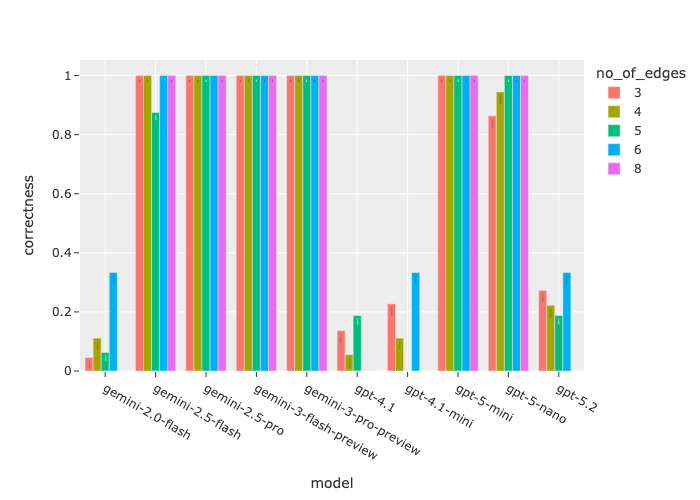
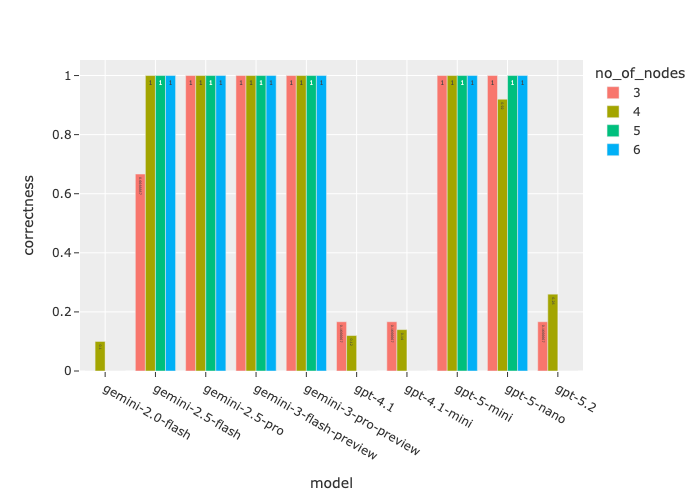
changes

diff --git a/Eval.py b/Eval.py
@@ -380,7 +380,7 @@ def eval_answer(flag=False):
     Data_all=[]
 
     for k in keys:
-        print('questions_records[k]',questions_records[k].keys())
+        #print('questions_records[k]',questions_records[k].keys())
         answers_set_all_crossed=questions_records[k]['original']['crossed']
         answers_set_all_not_crossed=questions_records[k]['original']['not_crossed']
     
@@ -403,10 +403,10 @@ def eval_answer(flag=False):
   
             # if 'gpt' not in selected_model['model']:
             #     continue
-            print('##############################')
-            print('data_name',data_name)
-            print('selected_model',selected_model)
-            print('Show_train_set',Show_train_set)
+            # print('##############################')
+            # print('data_name',data_name)
+            # print('selected_model',selected_model)
+            # print('Show_train_set',Show_train_set)
             ##
             direct_indirect={}
             Crossed_not_crossed={}
@@ -426,7 +426,7 @@ def eval_answer(flag=False):
                 name=eval_d['name']
                 type_=eval_d['Type_']
                 Crossed_edges=eval_d['Crossed_edges']
-                print('Crossed_edges',Crossed_edges)
+                #print('Crossed_edges',Crossed_edges)
           
                 source_adj=eval_d['source_adj']
 
@@ -459,139 +459,7 @@ def eval_answer(flag=False):
                 Data_all.append(item)
     return Data_all
    
-                
-
-          
-    #             if duration=='None':
-    #                 continue
-    #             total_seconds=total_seconds+int(duration)
-    #             if map_solution==an_obtained:
-    #                 c=c+1
-    #                 if type_ in direct_indirect.keys():
-    #                     direct_indirect[type_]['c']=direct_indirect[type_]['c']+1
-    #                     #print('direct_indirect[type_]',direct_indirect[type_])
-    #                     direct_indirect[type_]['duration']+=duration
-    #                 else:
-    #                     direct_indirect[type_]={'c':0,'nc':0,'duration':duration}
-    #                     direct_indirect[type_]['c']=direct_indirect[type_]['c']+1
-    #                 ########
-    #                 if Crossed_edges in Crossed_not_crossed.keys():
-    #                     Crossed_not_crossed[Crossed_edges]['c']=Crossed_not_crossed[Crossed_edges]['c']+1
-    #                     Crossed_not_crossed[Crossed_edges]['duration']+=duration
-    #                 else:
-    #                     Crossed_not_crossed[Crossed_edges]={'c':0,'nc':0,'duration':duration}
-    #                     Crossed_not_crossed[Crossed_edges]['c']=Crossed_not_crossed[Crossed_edges]['c']+1
-    #                 ##################
-    #                 if no_of_edges in no_of_edges_acc.keys():
-    #                     no_of_edges_acc[no_of_edges]['c']+=1
-    #                     no_of_edges_acc[no_of_edges]['duration']+=duration
-    #                 else:
-    #                     no_of_edges_acc[no_of_edges]={'c':0,'nc':0,'duration':duration}
-    #                     no_of_edges_acc[no_of_edges]['c']+=1
-    #                     no_of_edges_acc[no_of_edges]['duration']=duration
-    #                 ##
-    #                 if no_of_nodes in no_of_nodes_acc.keys():
-    #                     no_of_nodes_acc[no_of_nodes]['c']+=1
-    #                     no_of_nodes_acc[no_of_nodes]['duration']+=duration
-    #                 else:
-    #                     no_of_nodes_acc[no_of_nodes]={'c':0,'nc':0,'duration':duration}
-    #                     no_of_nodes_acc[no_of_nodes]['c']+=1
-    #             else:
-    #                 nc=nc+1
-    #                 if type_ in direct_indirect.keys():
-    #                     direct_indirect[type_]['nc']=direct_indirect[type_]['nc']+1
-    #                     direct_indirect[type_]['duration']=+duration
-    #                 else:
-    #                     direct_indirect[type_]={'c':0,'nc':0,'duration':duration}
-    #                     direct_indirect[type_]['nc']=direct_indirect[type_]['nc']+1
-    #                 ########
-    #                 if Crossed_edges in Crossed_not_crossed.keys():
-    #                     Crossed_not_crossed[Crossed_edges]['nc']=Crossed_not_crossed[Crossed_edges]['nc']+1
-    #                     Crossed_not_crossed[Crossed_edges]['duration']+=duration
-    #                 else:
-    #                     Crossed_not_crossed[Crossed_edges]={'c':0,'nc':0,'duration':duration}
-    #                     Crossed_not_crossed[Crossed_edges]['nc']=Crossed_not_crossed[Crossed_edges]['nc']+1
-    #                 ##################
-    #                 ##################
-    #                 if no_of_edges in no_of_edges_acc.keys():
-    #                     no_of_edges_acc[no_of_edges]['nc']+=1
-    #                     no_of_edges_acc[no_of_edges]['duration']=duration
-    #                 else:
-    #                     no_of_edges_acc[no_of_edges]={'c':0,'nc':0,'duration':duration}
-    #                     no_of_edges_acc[no_of_edges]['nc']+=1
-    #                 ##
-    #                 if no_of_nodes in no_of_nodes_acc.keys():
-    #                     no_of_nodes_acc[no_of_nodes]['nc']+=1
-    #                     no_of_nodes_acc[no_of_nodes]['duration']+=duration
-    #                 else:
-    #                     no_of_nodes_acc[no_of_nodes]={'c':0,'nc':0,'duration':duration}
-    #                     no_of_nodes_acc[no_of_nodes]['nc']+=1
-    #         print('c',c)
-    #         print('nc',nc)
-    #         print('total_minutes',total_seconds/60)
-
-    #         ###
-    #         for k in no_of_edges_acc.keys():
-    #             c=no_of_edges_acc[k]['c']
-    #             nc=no_of_edges_acc[k]['nc']
-    #             acc=c/(c+nc)
-    #             no_of_edges_acc[k]['ac']=acc
-
-    #         for k in no_of_nodes_acc.keys():
-    #             c=no_of_nodes_acc[k]['c']
-    #             nc=no_of_nodes_acc[k]['nc']
-    #             acc=c/(c+nc)
-    #             no_of_nodes_acc[k]['ac']=acc
-
-
-    #         print('+++')
-    #         print('direct_indirect',direct_indirect)
-    #         print('Crossed_not_crossed',Crossed_not_crossed)
-    #         print('no_of_edges_acc',no_of_edges_acc)
-    #         print('no_of_nodes_acc',no_of_nodes_acc)
-    #         ###
-    #         selected_model=selected_model['model']
-    #         for k in direct_indirect.keys():
-    #             data=direct_indirect[k]
-    #             duration=data['duration']/(data['c']+data['nc'])
-    #             acc=data['c']/(data['c']+data['nc'])
-    #             if acc==0:
-    #                 acc=.01
-    #             if k=='mixed':
-    #                 continue
-    #             direct_indirect_all.append([selected_model,k,acc,duration])
-    #         ##
-    #         for k in Crossed_not_crossed.keys():
-    #             data=Crossed_not_crossed[k]
-    #             acc=data['c']/(data['c']+data['nc'])
-    #             duration=data['duration']/(data['c']+data['nc'])
-    #             if acc==0:
-    #                 acc=.01
-    #             if k=='no':
-    #                 k='False'
-    #             Crossed_not_crossed_all.append([selected_model,k,acc,duration])
-    #         ##
-    #         for k in no_of_edges_acc.keys():
-    #             data=no_of_edges_acc[k]
-    #             acc=data['c']/(data['c']+data['nc'])
-    #             duration=data['duration']/(data['c']+data['nc'])
-    #             if acc==0:
-    #                 acc=.01
-    #             no_of_edges_acc_all.append([selected_model,k,acc,duration])
-    #         ##
-    #         ##
-    #         for k in no_of_nodes_acc.keys():
-    #             data=no_of_nodes_acc[k]
-    #             duration=data['duration']/(data['c']+data['nc'])
-    #             acc=data['c']/(data['c']+data['nc'])
-    #             if acc==0:
-    #                 acc=.01
-    #             no_of_nodes_acc_all.append([selected_model,k,acc,duration])
-
-
-    # return direct_indirect_all,Crossed_not_crossed_all,no_of_edges_acc_all,no_of_nodes_acc_all
-
-
+            
 
          
 
